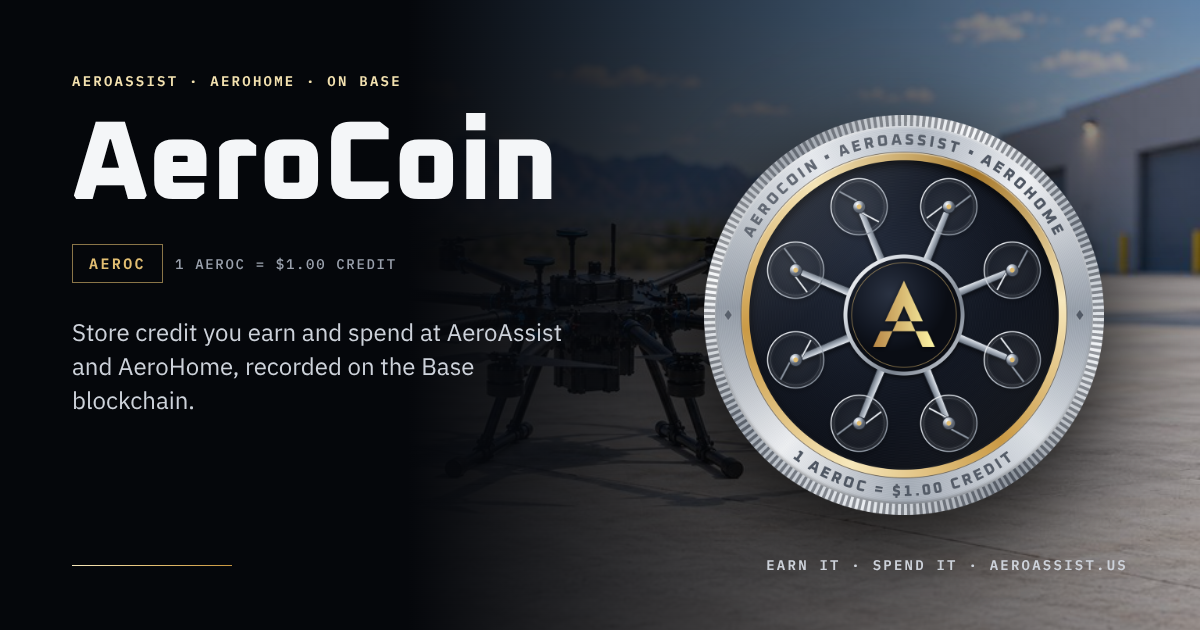
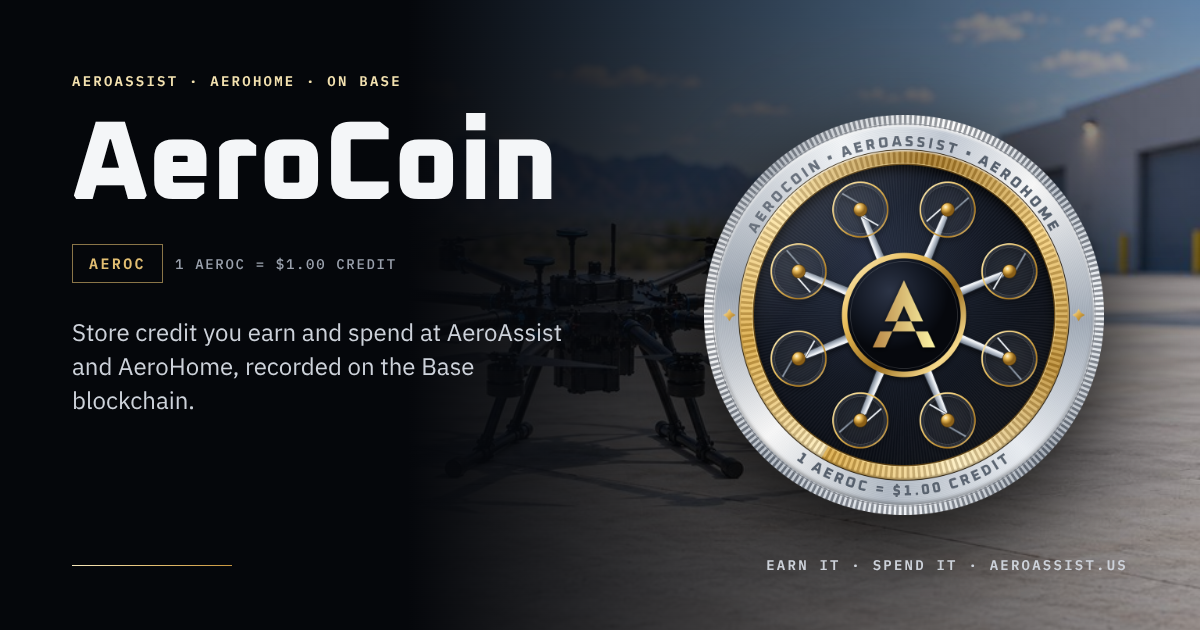
Platinum and gold coin
Claude-Session: https://claude.ai/code/session_011tU1sWJE9U8aPvZsodhiRM

Changed region(s): [[0.5858, 0.181, 0.925, 0.8143]]

diff --git a/index.html b/index.html
@@ -369,7 +369,7 @@ a.btn.btn-gold{color:var(--on-gold)}
     <div class="hero-stage">
       <div class="coin-stage">
         <div class="tilt">
-          <img class="coin" src="assets/coin-1024.png" alt="The AeroCoin: a silver coin with a gold ring, an eight-rotor drone on its face and the gold AeroAssist A on the drone's hub" width="470" height="470">
+          <img class="coin" src="assets/coin-1024.png" alt="The AeroCoin: a platinum coin with an engraved gold ring, an eight-rotor drone with gold rotors on its face and the gold AeroAssist A on the drone's hub" width="470" height="470">
           <div class="glint" aria-hidden="true"></div>
         </div>
       </div>
